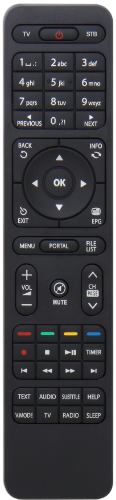
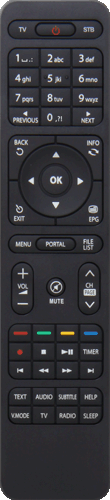
update rc type 14

diff --git a/lib/python/Components/RcModel.py b/lib/python/Components/RcModel.py
@@ -14,6 +14,7 @@ class RcModel:
 	RCTYPE_TM = 10
 	RCTYPE_ET6500 = 11
 	RCTYPE_ET4000 = 12
+	RCTYPE_XP1000 = 13
 
 	def __init__(self):
 		self.currentRcType = self.RCTYPE_DMM
@@ -37,7 +38,7 @@ class RcModel:
 				self.currentRcType = self.RCTYPE_TM
 		elif os.path.exists('/proc/stb/info/boxtype'):
 			model = self.readFile('/proc/stb/info/boxtype')
-			if len(model) == 6 and model[:2] == 'et':
+			if len(model) == 6 and model[:2] == 'et' or 'xp':
 				rc = self.readFile('/proc/stb/ir/rc/type')
 				if rc == '3':
 					self.currentRcType = self.RCTYPE_ODIN
@@ -63,6 +64,8 @@ class RcModel:
 					self.currentRcType = self.RCTYPE_ET9x00
 				elif rc == '13' and model == 'et4000':
 					self.currentRcType = self.RCTYPE_ET4000
+				elif rc == '14':
+					self.currentRcType = self.RCTYPE_XP1000
 			elif model == 'gigablue':
 				self.currentRcType = self.RCTYPE_GB
 			elif model == 'ini-3000':
@@ -84,7 +87,9 @@ class RcModel:
 		elif self.currentRcType == self.RCTYPE_ET6500:
 			return '/usr/share/enigma2/rc_models/et6500/'
 		elif self.currentRcType == self.RCTYPE_ET4000:
-			return '/usr/share/enigma2/rc_models/et4000/'	
+			return '/usr/share/enigma2/rc_models/et4000/'
+		elif self.currentRcType == self.RCTYPE_XP1000:
+			return '/usr/share/enigma2/rc_models/xp1000/'			
 		elif self.currentRcType == self.RCTYPE_GB:
 			return '/usr/share/enigma2/rc_models/gb/'
 		elif self.currentRcType == self.RCTYPE_INI3000:
